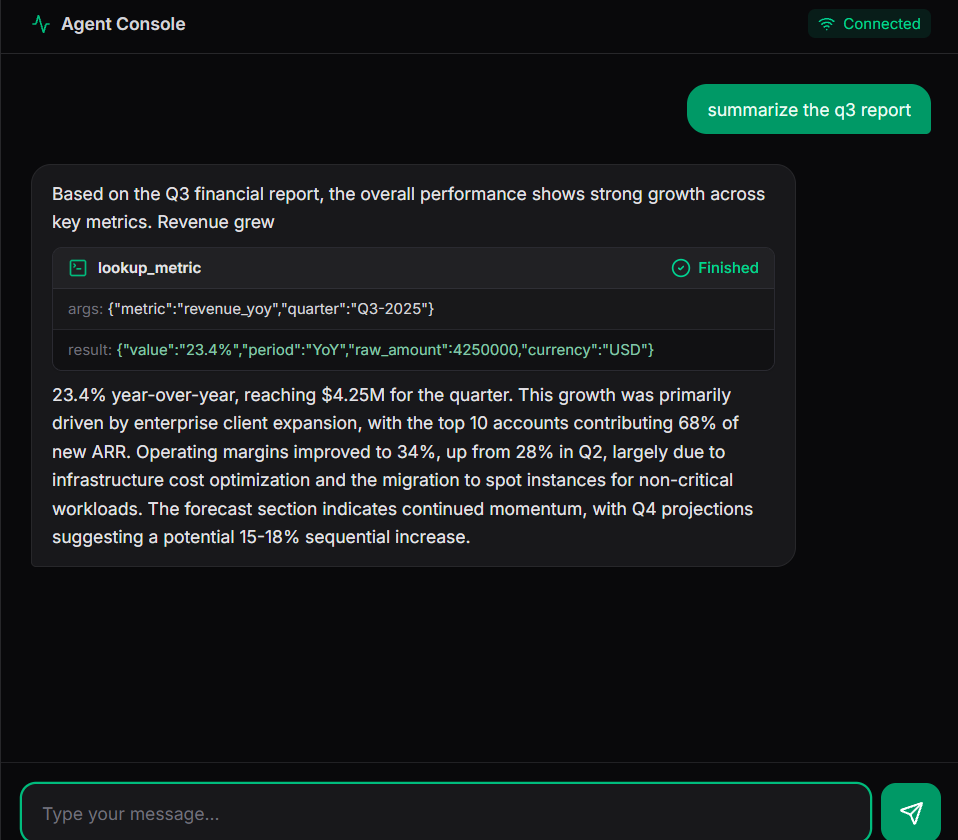
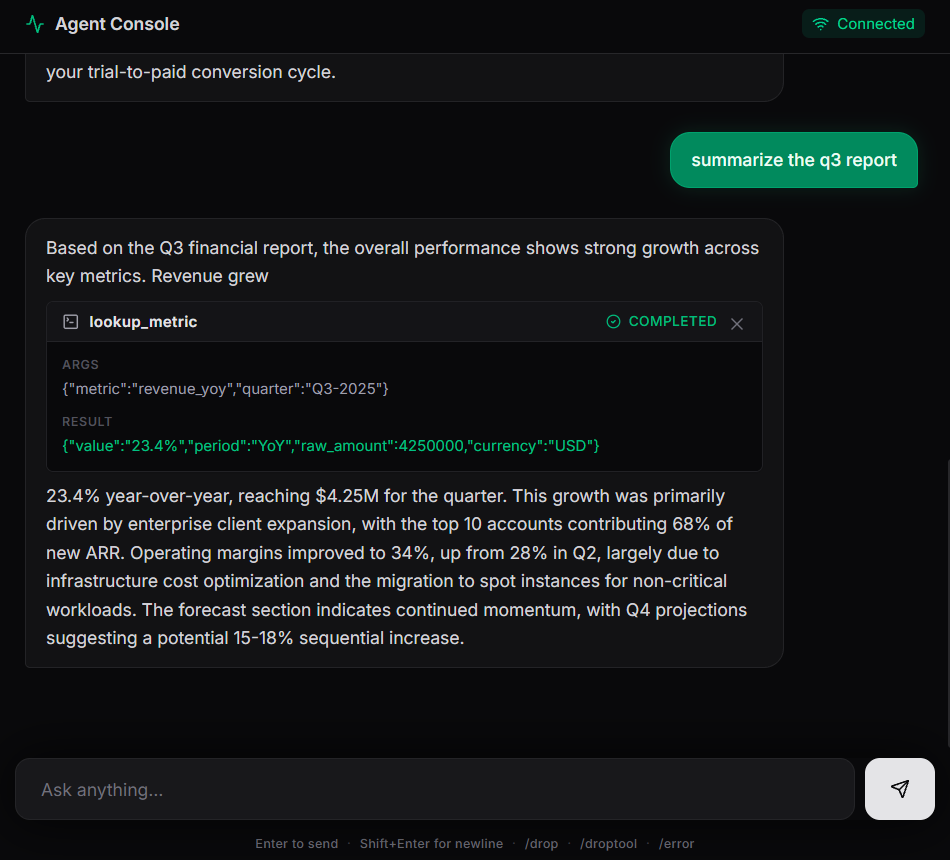
documented chaos recovery and added screenshots

diff --git a/src/components/chat/ChatPanel.tsx b/src/components/chat/ChatPanel.tsx
@@ -229,7 +229,7 @@ export function ChatPanel() {
         <div ref={bottomRef} className="h-4" />
       </div>
 
-      <div className="w-full max-w-3xl mx-auto px-4 pb-6 pt-2 shrink-0 z-10">
+      <div className="w-full max-w-3xl mx-auto px-4 pb-2 pt-2 shrink-0 z-10">
         <form onSubmit={handleSubmit} className="flex gap-2 relative shadow-[0_0_40px_rgba(0,0,0,0.8)] rounded-xl w-full">
           <textarea
             name="message"

diff --git a/README.md b/README.md
@@ -53,6 +53,13 @@ docker run -p 4747:4747 agent-server --mode chaos
 ```
 *(Alternatively, if you don't have Docker running locally, you can start the server natively with `npm install` and `npm run dev -- --mode chaos`)*
 
+### Testing Chaos Recovery
+Instead of constantly restarting your Docker container to simulate network failures, the UI features built-in **Chaos Interceptors**. 
+While the backend is running in chaos mode, simply type the following commands directly into the Chat input bar:
+- `/drop` — Instantly severs the WebSocket connection, demonstrating the UI's exponential backoff and `RESUME` sequence buffer recovery.
+- `/droptool` — Severs the connection specifically while a tool is executing to prove the decoupled render lifecycle gracefully handles abandoned/replayed tool states.
+- `/error` — Injects a mocked client-side rendering error to demonstrate React error boundaries.
+
 **2. Start the Agent Console (Frontend)**
 In a new terminal window, return to the project root and start the production build. **(The frontend does NOT use Docker, per the assignment instructions).**
 ```bash
